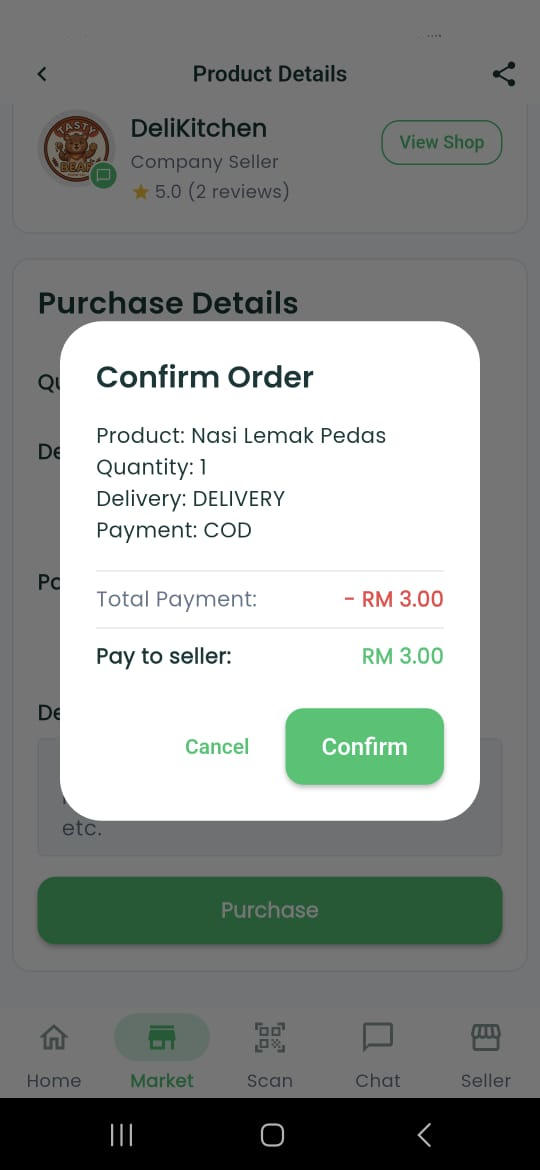
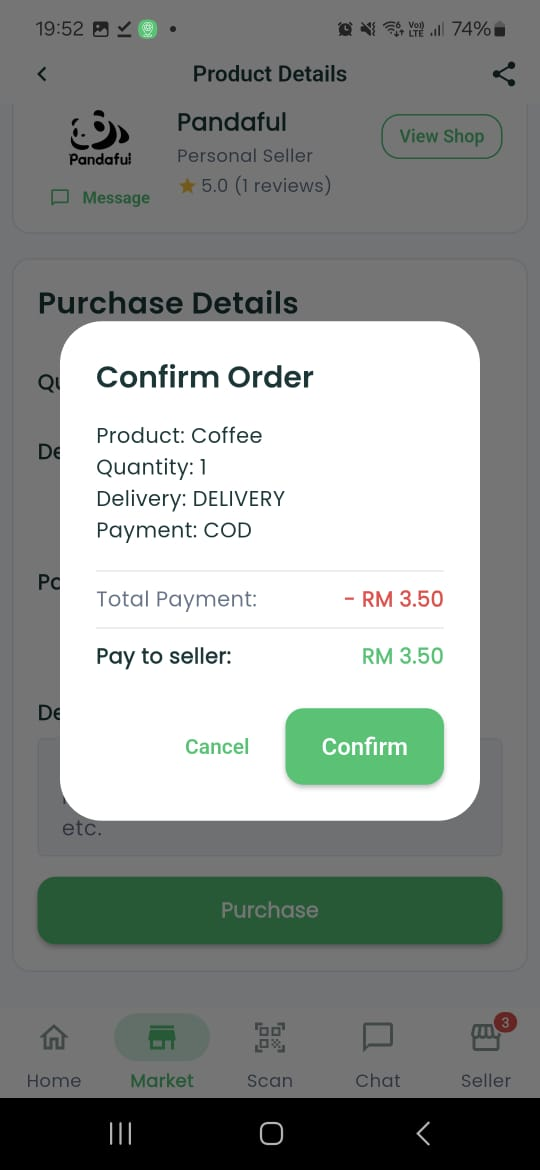
add backend

diff --git a/index.html b/index.html
@@ -260,6 +260,24 @@
               </div>
             </div>
           </section>
+          <section class="container mb-8 mb-lg-13 marketplace-journey-section seller-journey-section" id="seller-journey">
+            <div class="marketplace-journey-heading text-center">
+              <p class="section-kicker">HOW TO BE A SELLER</p>
+              <h2>Start selling, your way.</h2>
+              <p>Set up your shop, manage your products, and grow at a pace that works for you.</p>
+            </div>
+            <div class="marketplace-carousel" data-marketplace-carousel>
+              <button class="marketplace-carousel-control marketplace-carousel-prev" type="button" aria-label="Previous seller step" data-marketplace-prev>&lsaquo;</button>
+              <div class="marketplace-steps" data-marketplace-track tabindex="0">
+                <article class="marketplace-step"><div class="marketplace-step-layout"><div class="marketplace-step-copy"><img src="assets/img/redesign/selling-1.webp" alt="Register as a Weplace seller" /><h3>Register as a seller</h3><p>Register in the app on a trusted platform. Personal sellers verify with a Malaysian IC, while companies register with Malaysian SSM details.</p></div><img class="marketplace-step-phone" src="assets/img/gallery/selling-1.jpg" alt="Seller registration screen" /></div></article>
+                <article class="marketplace-step"><div class="marketplace-step-layout"><div class="marketplace-step-copy"><img src="assets/img/redesign/selling-2.webp" alt="Create a Weplace shop profile" /><h3>Shop profile</h3><p>Set up your shop name, description, gallery, and validation details so buyers know who they are buying from.</p></div><img class="marketplace-step-phone" src="assets/img/gallery/selling-2.jpg" alt="Shop profile screen" /></div></article>
+                <article class="marketplace-step"><div class="marketplace-step-layout"><div class="marketplace-step-copy"><img src="assets/img/redesign/selling-3.webp" alt="Manage products on Weplace" /><h3>Manage products</h3><p>Add and update products, prices, availability, and photos from one place.</p></div><img class="marketplace-step-phone" src="assets/img/gallery/selling-3.jpg" alt="Product management screen" /></div></article>
+                <article class="marketplace-step"><div class="marketplace-step-layout"><div class="marketplace-step-copy"><img src="assets/img/redesign/selling-4.webp" alt="Manage selling options on Weplace" /><h3>Manage selling</h3><p>Set payment, delivery or pickup, selling area, options, and business hours. Sell when and how it works for you.</p></div><img class="marketplace-step-phone" src="assets/img/gallery/selling-4.jpg" alt="Selling settings screen" /></div></article>
+                <article class="marketplace-step"><div class="marketplace-step-layout"><div class="marketplace-step-copy"><img src="assets/img/redesign/selling-5.webp" alt="Manage orders on Weplace" /><h3>Manage orders</h3><p>Track orders from preparing to delivering and completing, with clear updates at every step.</p></div><img class="marketplace-step-phone" src="assets/img/gallery/selling-5.jpg" alt="Order management screen" /></div></article>
+              </div>
+              <button class="marketplace-carousel-control marketplace-carousel-next" type="button" aria-label="Next seller step" data-marketplace-next>&rsaquo;</button>
+            </div>
+          </section>
           <section class="priority-support-section mb-8 mb-lg-13" id="priority-support">
             <div class="container">
               <div class="priority-support-header text-center">
